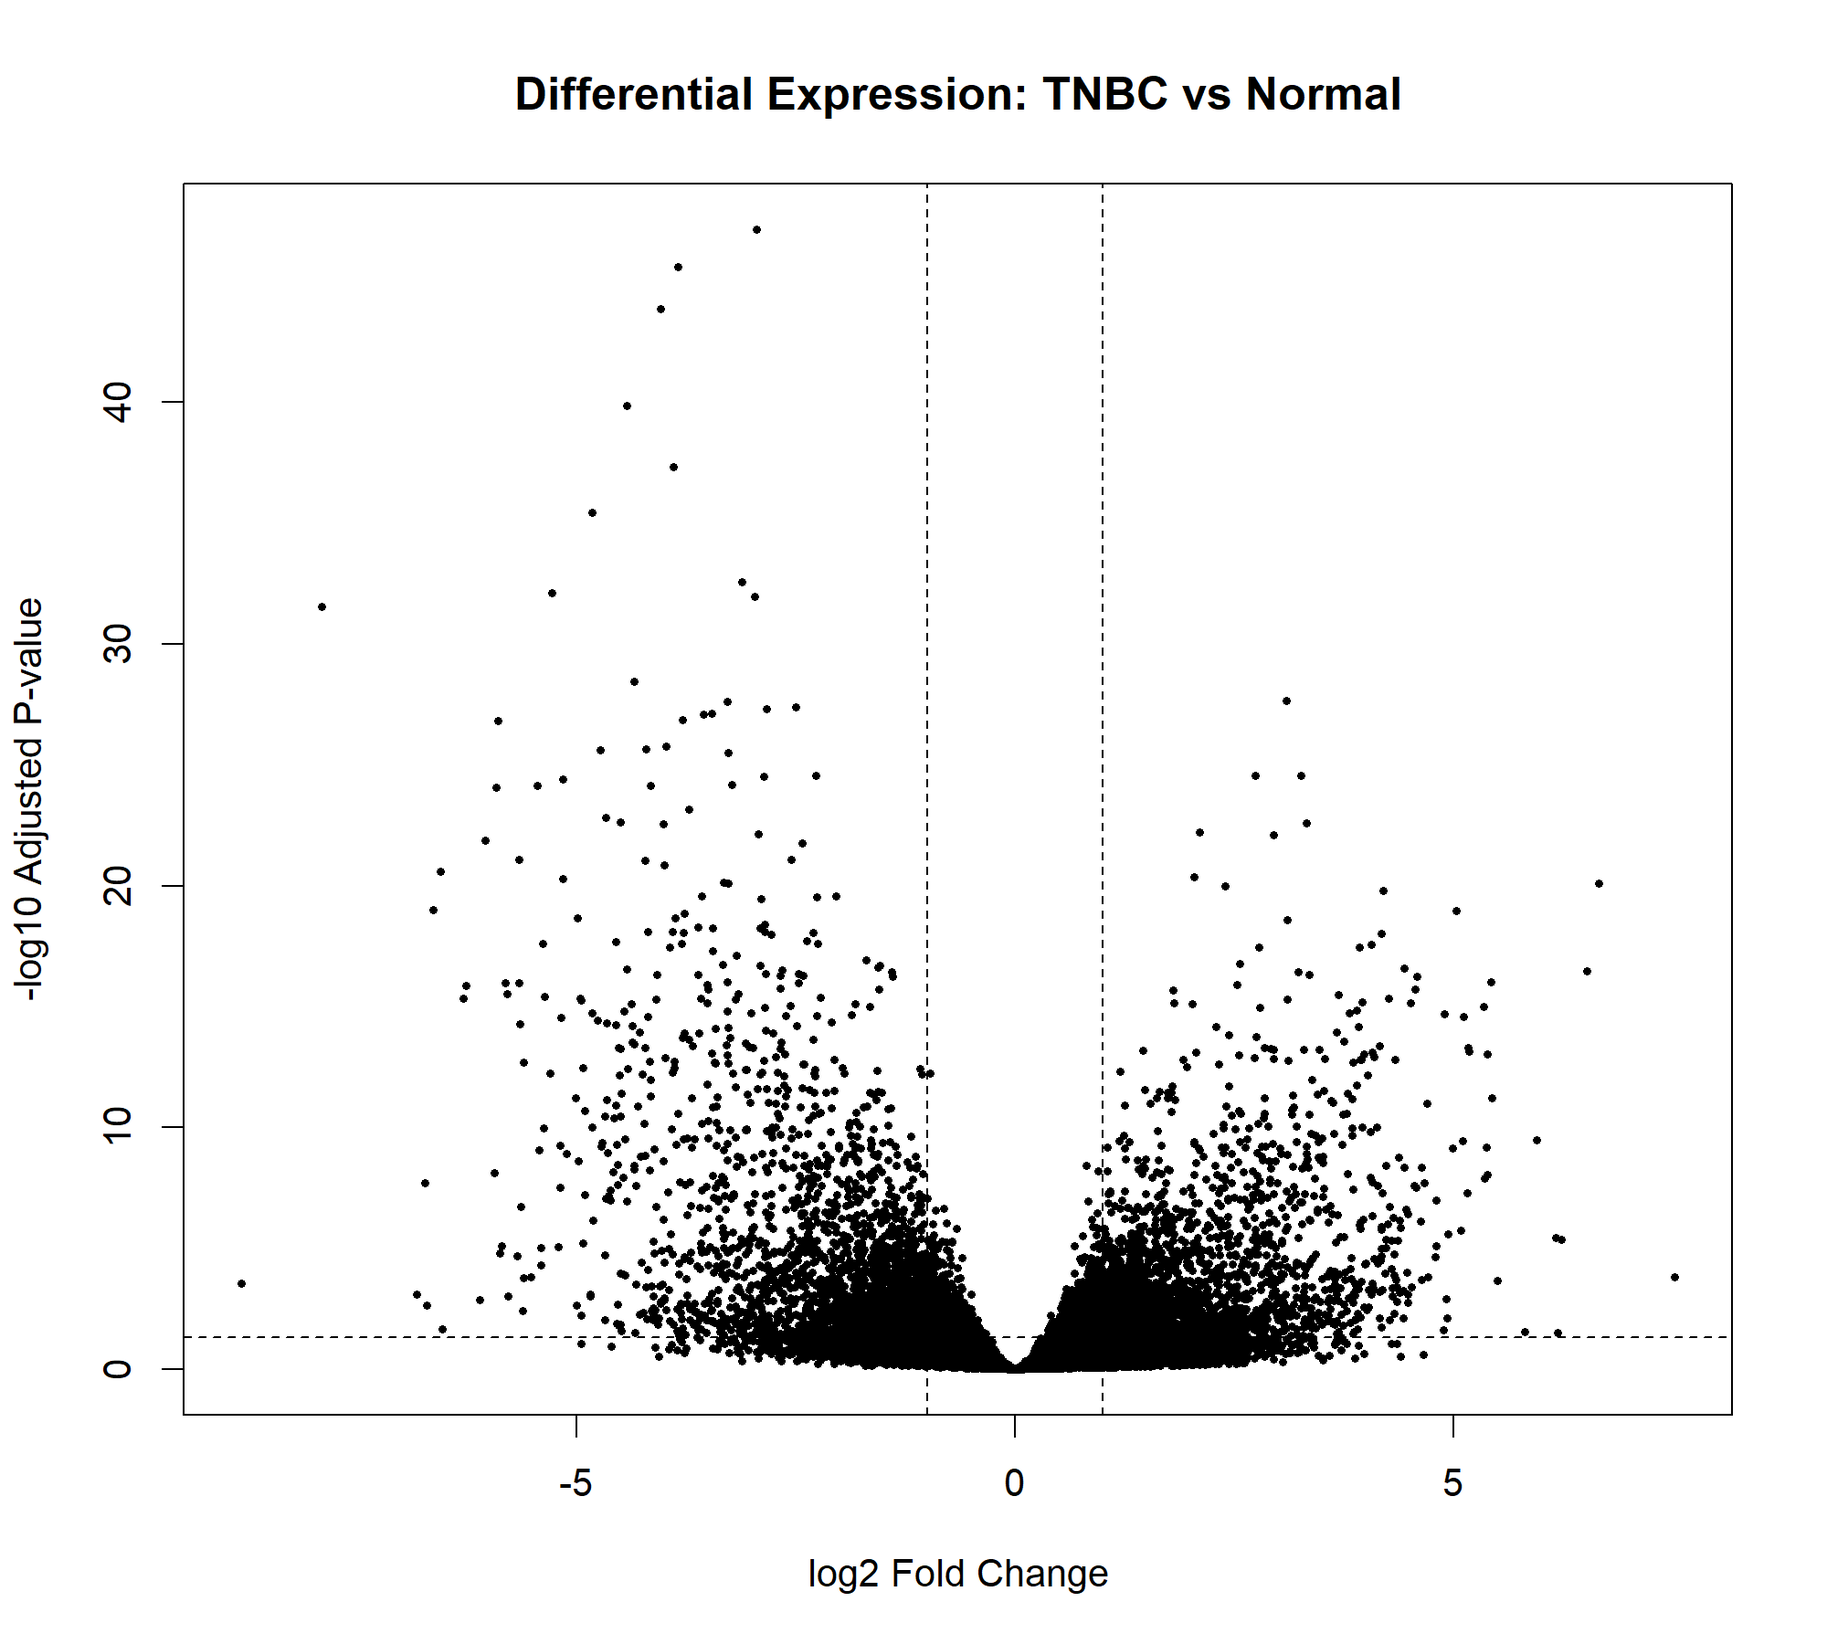
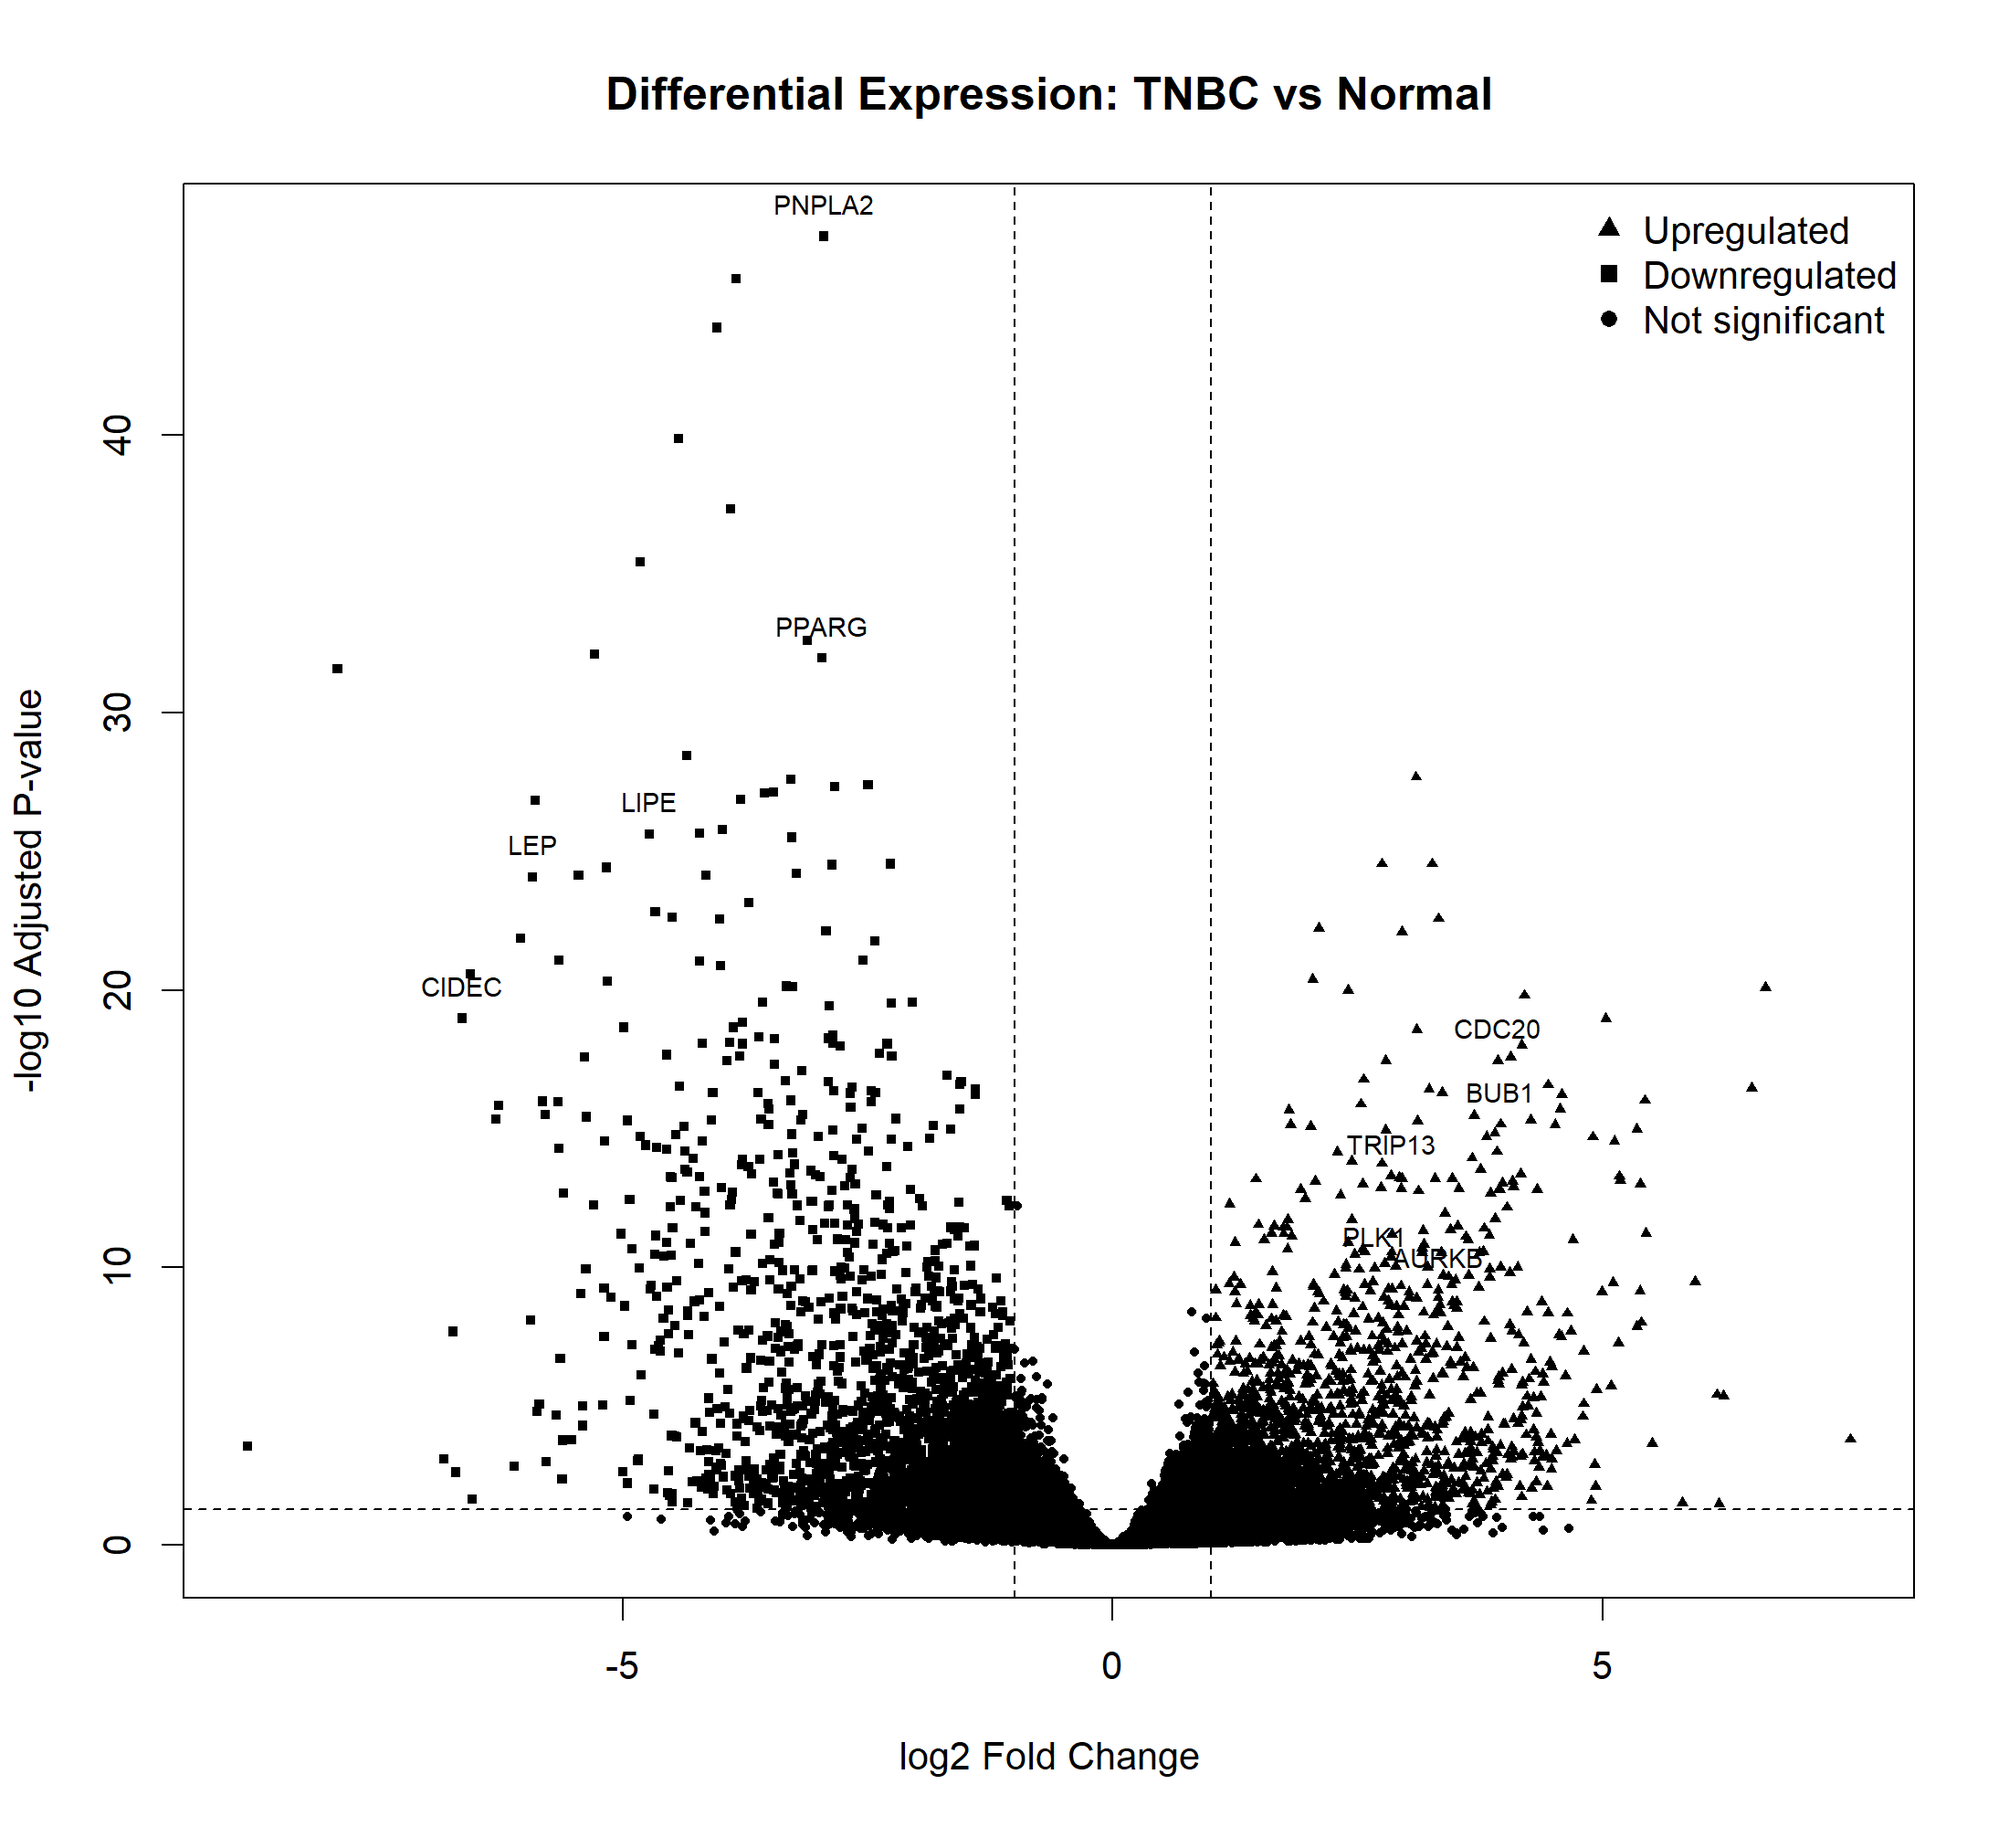
Improve visualization and project documentation

diff --git a/README.md b/README.md
@@ -2,309 +2,41 @@
 
 ## Overview
 
-This project presents a transcriptomic analysis comparing Normal breast tissue with triple-negative breast cancer (TNBC) samples.
+This project presents a reproducible RNA-seq transcriptomic analysis comparing matched Normal breast tissue and triple-negative breast cancer (TNBC) samples.
 
-The analysis aims to identify differentially expressed genes, characterize the biological pathways associated with TNBC, and prioritize candidate genes that may represent distinct molecular programs associated with the disease.
+The analysis aims to identify differentially expressed genes, characterize biological pathways associated with TNBC, and prioritize candidate genes representing distinct molecular programs.
 
 The analysis identified two major transcriptional patterns:
 
-- Increased cell-cycle and proliferative activity
-- Reduced lipid-associated and metabolic activity
+- **Increased cell-cycle and proliferative activity**
+- **Reduced lipid-associated and metabolic activity**
 
 ---
 
 ## Research Question
 
-What transcriptional and biological pathways distinguish TNBC samples from Normal breast tissue, and which genes can be prioritized as candidate markers of these molecular differences?
+> What transcriptional and biological pathways distinguish TNBC samples from Normal breast tissue, and which genes can be prioritized as candidate markers of these molecular differences?
 
 ---
 
 ## Dataset
 
-The analysis used RNA-seq gene expression data consisting of:
+The analysis used RNA-seq gene expression data from the **NCBI Gene Expression Omnibus (GEO) dataset GSE233242**.
 
-- 8 Normal samples
-- 8 TNBC samples
-- 16 samples in the final analysis
-- 39,376 genes/features
+The final analysis included:
+
+- **8 Normal samples**
+- **8 TNBC samples**
+- **16 samples in total**
+- **39,376 genes/features**
 
 The analysis was restricted to matched Normal-TNBC samples.
 
 ---
 
-## Analysis Workflow
+# Analysis Workflow
 
-The analysis was performed using R and was organized into six reproducible scripts.
-
-### 1. Data Exploration and Sample Preparation
-
-`Scripts/01_explore_data.R`
-
-- Loaded GEO sample metadata
-- Identified Normal and TNBC samples
-- Identified matched patients
-- Loaded the raw RNA-seq count matrix
-- Selected the final 16 samples
-- Examined sequencing depth and count distributions
-
-### 2. Differential Expression Analysis
-
-`Scripts/02_differential_expression.R`
-
-Differential expression was performed using DESeq2.
-
-The analysis identified:
-
-- 2,011 upregulated genes
-- 2,218 downregulated genes
-
-### 3. Functional Enrichment
-
-`Scripts/03_functional_enrichment.R`
-
-Functional enrichment analysis was performed using:
-
-- Gene Ontology (GO) Biological Process
-- KEGG pathway analysis
-
-The analysis was performed separately for upregulated and downregulated genes.
-
-### 4. Candidate Gene Prioritization
-
-`Scripts/04_candidate_prioritization.R`
-
-Candidate genes were prioritized using differential expression, statistical significance, pathway association, and biological relevance.
-
-Ten final candidates were selected.
-
-### 5. Candidate Validation
-
-`Scripts/05_candidate_validation.R`
-
-The final candidates were evaluated using:
-
-- Expression-level comparison between Normal and TNBC
-- Wilcoxon statistical testing
-- Multiple-testing correction
-- TNBC-specific Pearson correlation analysis
-
-### 6. Visualization
-
-`Scripts/06_visualization.R`
-
-The final analysis generated:
-
-- PCA plot
-- Volcano plot
-- GO enrichment plots
-- KEGG enrichment plots
-- Candidate-gene heatmap
-- Candidate-gene boxplots
-- TNBC candidate-gene correlation heatmap
-
----
-
-## Key Findings
-
-### Differential Expression
-
-The analysis identified extensive transcriptional differences between Normal and TNBC samples:
-
-| Category | Number |
-|---|---:|
-| Upregulated genes | 2,011 |
-| Downregulated genes | 2,218 |
-| Total genes analyzed | 39,376 |
-
----
-
-## Upregulated Molecular Program
-
-The upregulated genes were strongly enriched for processes involving:
-
-- Nuclear division
-- Mitotic nuclear division
-- Sister chromatid segregation
-- Chromosome segregation
-- Cell-cycle checkpoint signaling
-
-The strongest GO Biological Process enrichment was nuclear division:
-
-**Adjusted p-value = 1.63 × 10⁻²²**
-
-The strongest KEGG pathway was:
-
-**Cell cycle — adjusted p-value = 1.15 × 10⁻¹⁴**
-
-These results indicate a strong proliferative and mitotic transcriptional program in the TNBC samples.
-
-### Prioritized upregulated genes
-
-- **CDC20**
-- **BUB1**
-- **TRIP13**
-- **PLK1**
-- **AURKB**
-
----
-
-## Downregulated Molecular Program
-
-Downregulated genes were enriched for metabolic, hormonal, and lipid-associated processes.
-
-Important biological processes included:
-
-- Fatty acid metabolic process
-- Regulation of hormone levels
-- Adaptive thermogenesis
-- Retinol metabolism
-
-KEGG analysis showed particularly strong enrichment of:
-
-- **PPAR signaling — adjusted p-value = 2.58 × 10⁻⁵**
-- **Regulation of lipolysis in adipocytes — adjusted p-value = 2.58 × 10⁻⁵**
-- Steroid hormone biosynthesis
-- Retinol metabolism
-- Fatty acid degradation
-- Adipocytokine signaling
-
-These findings suggest altered lipid-associated and metabolic transcriptional programs in TNBC.
-
-### Prioritized downregulated genes
-
-- **PNPLA2**
-- **PPARG**
-- **LIPE**
-- **LEP**
-- **CIDEC**
-
----
-
-## Final 10-Gene Candidate Panel
-
-The final candidate panel consists of two major groups:
-
-| Program | Genes |
-|---|---|
-| Proliferation / mitosis | CDC20, BUB1, TRIP13, PLK1, AURKB |
-| Lipid / metabolic | PNPLA2, PPARG, LIPE, LEP, CIDEC |
-
-The candidates showed significant expression differences between Normal and TNBC samples after multiple-testing correction.
-
----
-
-## TNBC-Specific Correlation Analysis
-
-Correlation analysis among the ten candidates was performed using the eight TNBC samples.
-
-The proliferation-associated genes showed strong positive correlations, including:
-
-- BUB1–TRIP13: r = 0.98
-- TRIP13–PLK1: r = 0.97
-- PLK1–AURKB: r = 0.95
-
-The metabolic-associated genes also showed strong positive correlations:
-
-- LIPE–CIDEC: r = 0.95
-- LEP–CIDEC: r = 0.95
-- PNPLA2–LIPE: r = 0.93
-
-Several relationships between the proliferation and metabolic groups were negative.
-
-This suggests that the ten candidates may represent two coordinated and opposing transcriptional programs within TNBC.
-
----
-
-## Biological Interpretation
-
-Taken together, the results suggest that the TNBC transcriptional state examined in this cohort is characterized by:
-
-**Increased proliferative and mitotic activity**
-
-alongside
-
-**Reduced lipid-associated and metabolic activity.**
-
-The coordinated expression of the prioritized genes provides additional support for this two-component molecular pattern.
-
-The ten genes therefore represent a biologically coherent candidate molecular signature for further investigation.
-
-A detailed interpretation of the results is provided in:
-
-`Interpretation/biological_interpretation.md`
-
----
-
-## Figures
-
-### PCA
-
-`Figures/PCA_Normal_vs_TNBC.png`
-
-The PCA plot provides an overview of global transcriptomic variation between the Normal and TNBC samples.
-
-### Differential Expression
-
-`Figures/Volcano_Plot_TNBC_vs_Normal.png`
-
-The volcano plot summarizes the magnitude and statistical significance of differential gene expression.
-
-### Functional Enrichment
-
-- `Figures/GO_BP_Upregulated.png`
-- `Figures/GO_BP_Downregulated.png`
-- `Figures/KEGG_Upregulated.png`
-- `Figures/KEGG_Downregulated.png`
-
-These figures summarize the biological processes and pathways associated with the upregulated and downregulated genes.
-
-### Candidate Gene Expression
-
-- `Figures/Final_10_Gene_Heatmap.png`
-- `Figures/Final_10_Gene_Boxplots.png`
-
-These figures show the expression patterns of the ten prioritized candidates.
-
-### TNBC Gene Correlation
-
-`Figures/TNBC_10_Gene_Correlation_Heatmap.png`
-
-This figure shows gene-gene correlations among the ten candidates specifically within the TNBC samples.
-
----
-
-## Results
-
-The `Results/` directory contains:
-
-- Complete DESeq2 results
-- Upregulated and downregulated gene lists
-- Annotated DEGs
-- GO enrichment results
-- KEGG enrichment results
-- Candidate-gene prioritization results
-- Final ten-gene shortlist
-- Statistical validation results
-- TNBC correlation matrix
-
----
-
-## Limitations
-
-The analysis has several limitations:
-
-1. The final analysis included only 16 samples: 8 Normal and 8 TNBC.
-2. The study identifies transcriptomic associations and does not establish causal relationships.
-3. Candidate validation was performed within the same cohort rather than an independent dataset.
-4. The TNBC correlation analysis was based on only 8 TNBC samples and should therefore be considered exploratory.
-5. The ten genes should be considered candidate markers rather than clinically validated biomarkers.
-6. Independent validation using larger cohorts and experimental studies is required.
-
----
-
-## Reproducibility
-
-The analysis is organized into sequential R scripts:
+The analysis was performed using **R** and organized into six sequential scripts.
 
 ```text
 01_explore_data.R
